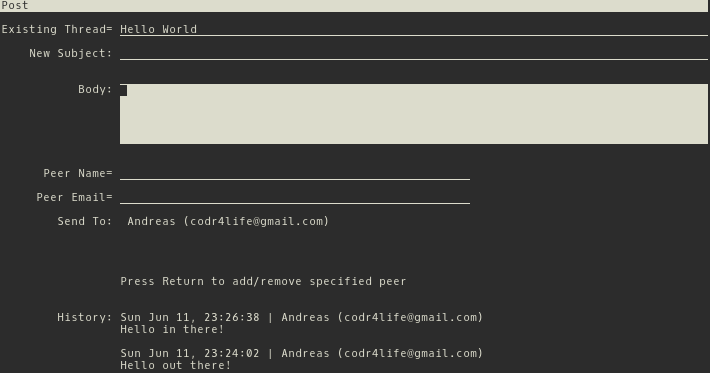
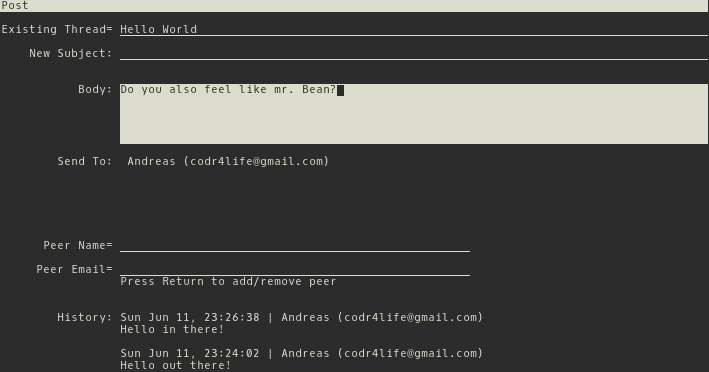
auto-add last thread poster in post form

diff --git a/src/snackis/ui/post_form.cpp b/src/snackis/ui/post_form.cpp
@@ -18,12 +18,17 @@ namespace ui {
     set_str(frm.send_to, buf.str());
   }
   
-  static str load_history(const Thread &thread, size_t width) {
-    Ctx &ctx(thread.ctx);
-	       
+  static void update_history(PostForm &frm) {
+    auto &ctx(frm.ctx);
+    auto thread(get_thread_id(ctx, frm.thread.selected->val));
+    frm.peers.clear();
+    const auto width(frm.history.dim.w);
     Stream out;
+    
     for (auto &post: last_posts(thread, 7)) {
       Peer by(get_peer_id(ctx, post.by_id));
+      if (frm.peers.empty()) { frm.peers.insert(by); }
+      
       out << fill(fmt("%0 | %1 (%2)",
 		      fmt(post.at, "%a %b %d, %H:%M:%S"),
 		      by.name, by.email),
@@ -31,7 +36,9 @@ namespace ui {
       out << fill(post.body, ' ', width);
       out << fill("", ' ', width);
     }
-    return out.str();
+
+    update_peers(frm);
+    set_str(frm.history, out.str());
   }
 
   PostForm::PostForm(View &view, Footer &ftr):
@@ -40,8 +47,8 @@ namespace ui {
     thread(*this, Dim(1, view.dim.w), "Existing Thread"),
     subj(*this, Dim(1, view.dim.w), "New Subject"),
     body(*this, Dim(5, view.dim.w), "Body"),
-    peer(*this, "Peer"),
     send_to(*this, Dim(5, view.dim.w), "Send To"),
+    peer(*this, "Peer"),
     history(*this, Dim(view.dim.h-26, view.dim.w), "History") {
     label = "Post";
     status = "Press Ctrl-s to post, or Ctrl-q to cancel";
@@ -55,19 +62,20 @@ namespace ui {
     thread.on_change = [this]() {
       if (thread.selected) {
 	set_str(subj, "");
-	set_str(history,
-		load_history(get_thread_id(ctx, thread.selected->val),
-			     history.dim.w));
+	update_history(*this);
       }
     };
     
     subj.on_change = [this]() {
-      if (!get_str(subj).empty()) { clear(thread, false); }
+      if (!get_str(subj).empty()) {
+	clear(thread, false);
+	set_str(history, "");
+      }
     };
 
     peer.name.margin_top = 1;
+    peer.email.info = "Press Return to add/remove peer";
     send_to.active = false;
-    send_to.info = "Press Return to add/remove peer";
 
     body.margin_top = 1;
     body.rows = 10;

diff --git a/src/snackis/db.cpp b/src/snackis/db.cpp
@@ -75,6 +75,7 @@ namespace snackis {
 	   {&msg_type, &msg_to, &msg_peer_name, &msg_crypt_key,
 	       &msg_thread_id, &msg_thread_subj,
 	       &msg_post_id, &msg_post_at, &msg_post_body}) {
+    inbox.indexes.insert(&msgs);
     peers.indexes.insert(&peer_emails);
     posts.indexes.insert(&thread_posts);
   }

diff --git a/src/snackis/ui/reader.cpp b/src/snackis/ui/reader.cpp
@@ -62,8 +62,11 @@ namespace ui {
 	    log(rdr.ctx, "Inbox is empty");
 	  } else {
 	    InboxForm frm(rdr.view, rdr.form.footer);
-	    open(frm);
-	    run(frm);
+	    if (frm.fields.empty()) { log(rdr.ctx, "Inbox is empty"); }
+	    else {
+	      open(frm);
+	      run(frm);
+	    }
 	  }
 	}));
     

diff --git a/src/snackis/net/imap.cpp b/src/snackis/net/imap.cpp
@@ -143,7 +143,6 @@ namespace snackis {
 	continue;
       }
       
-      insert(imap.ctx.db.msgs, *msg);
       insert(imap.ctx.db.inbox, *msg);
       delete_uid(imap, uid);
       log(imap.ctx, fmt("Fetched message from %0", msg->from));

diff --git a/src/snackis/ui/post_form.hpp b/src/snackis/ui/post_form.hpp
@@ -19,8 +19,8 @@ namespace ui {
     EnumField<UId> thread;
     TextField subj;
     TextField body;
-    PeerPanel peer;
     TextField send_to;
+    PeerPanel peer;
     TextField history;
     PostForm(View &view, Footer &ftr);
   };
